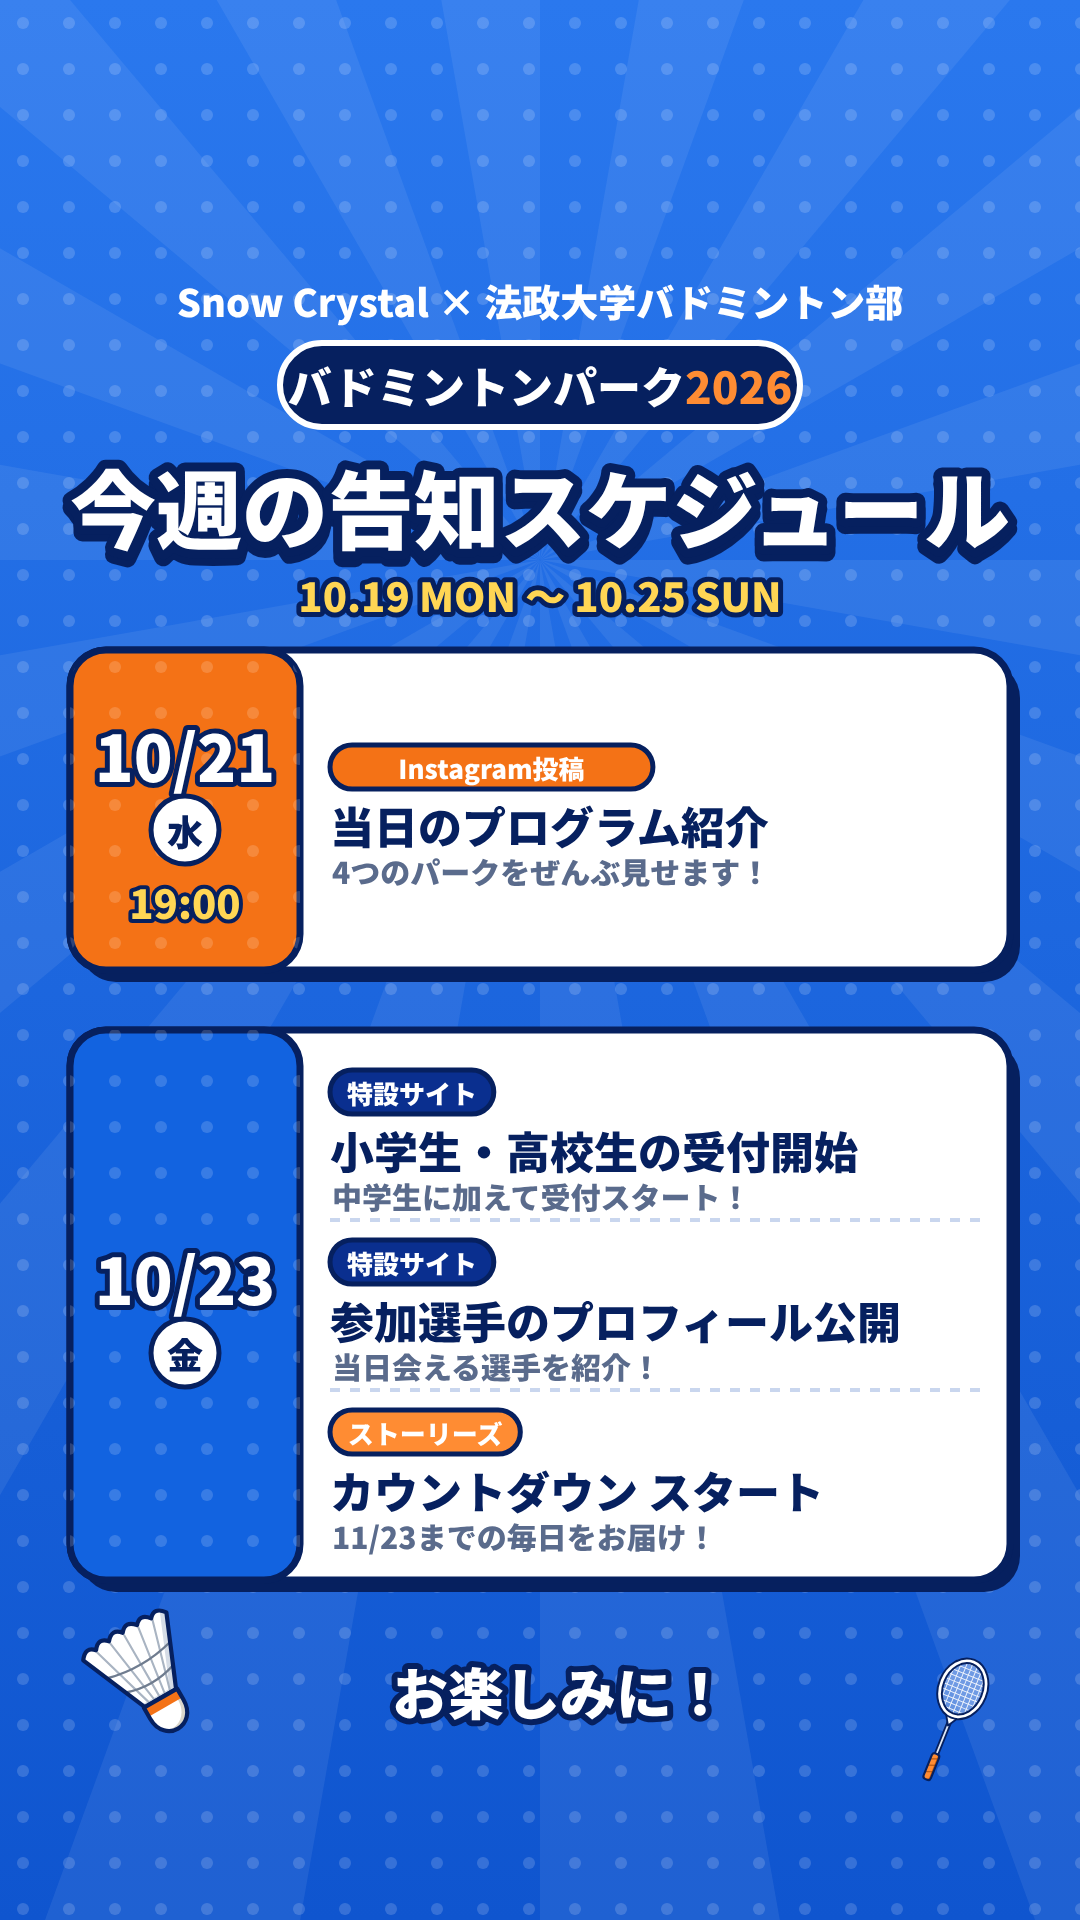
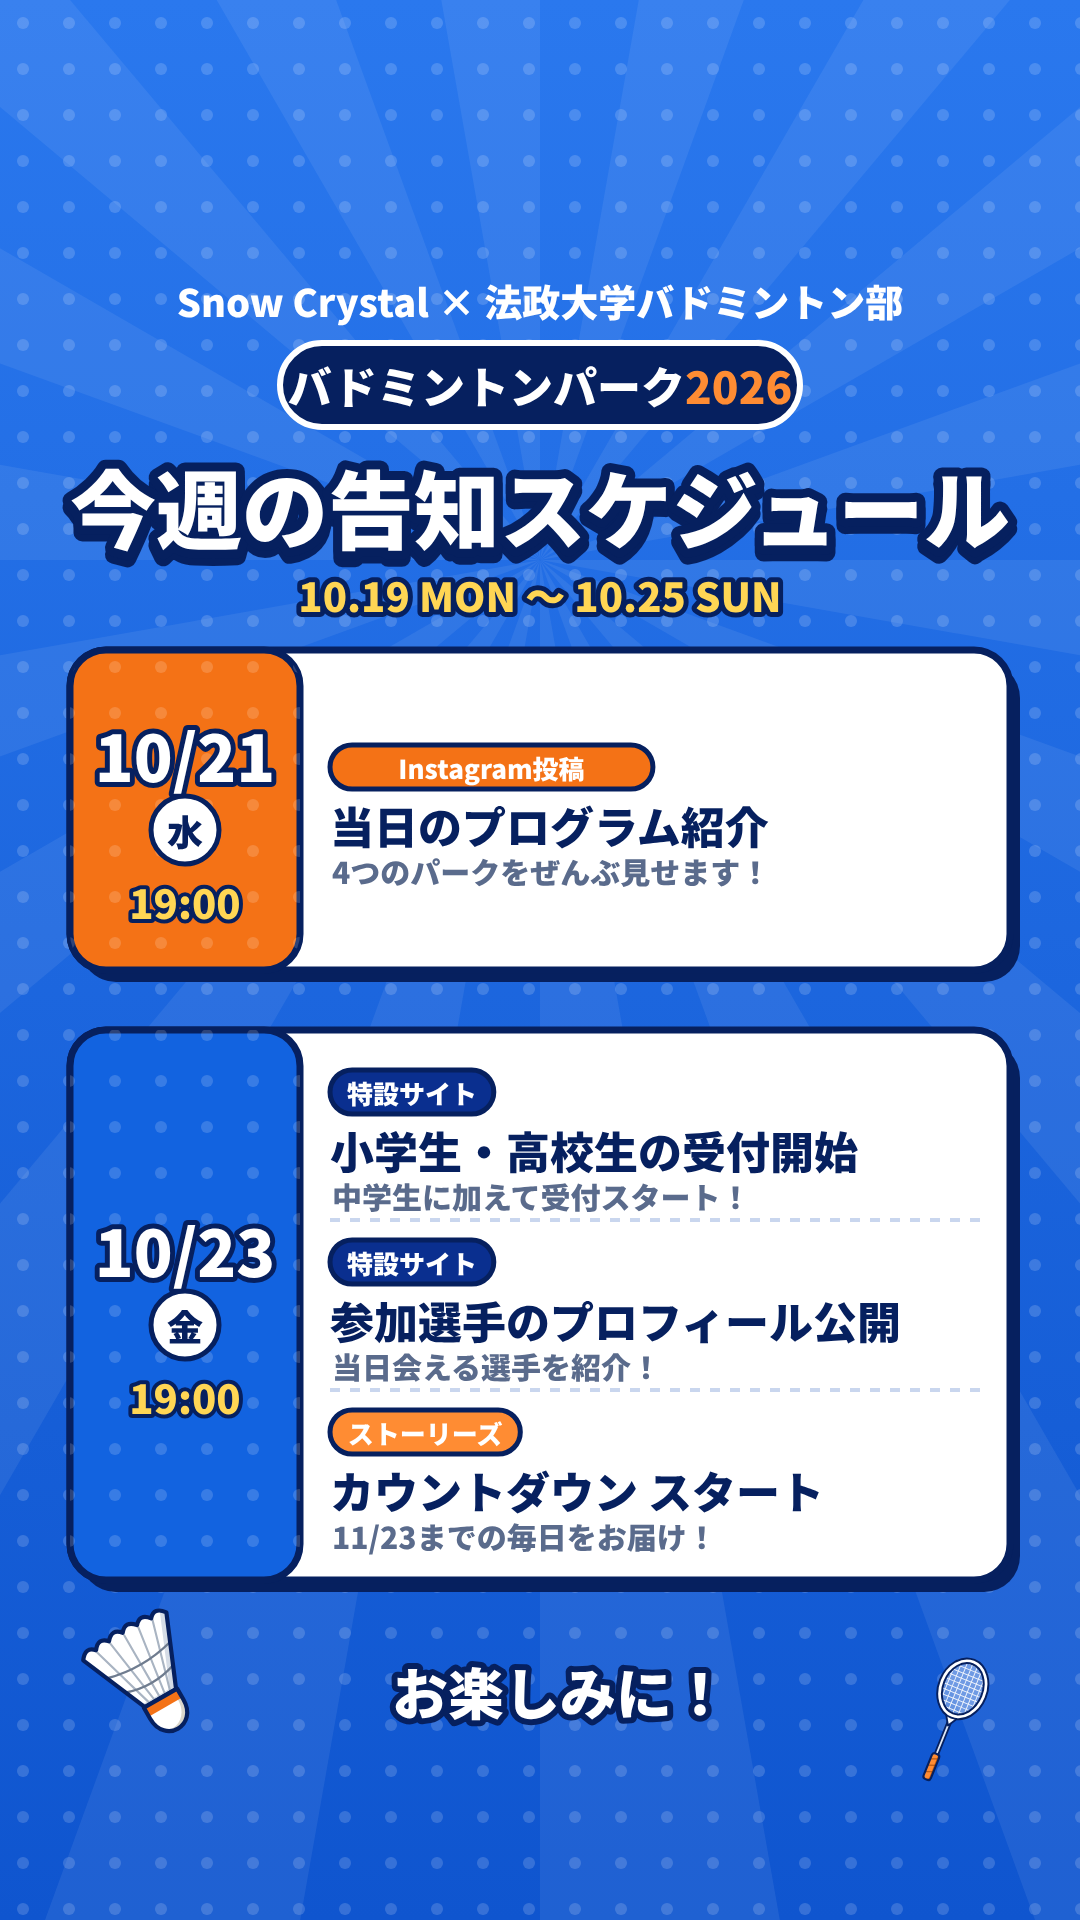
今週の告知スケジュール: 10/23を19:00に
Claude-Session: https://claude.ai/code/session_01FUrcSuU1LtPQWz1MTbAvHW

Changed region(s): [[0.0917, 0.625, 0.275, 0.75]]

diff --git a/instagram/weekly-story/index.html b/instagram/weekly-story/index.html
@@ -23,7 +23,7 @@ const WEEK='10.19 MON 〜 10.25 SUN';
 // [日付, 曜日, 時刻, 色, [[媒体, 内容, ひとこと], ...]]
 const DAYS=[
  ['10/21','水','19:00',OR,[['Instagram投稿','当日のプログラム紹介','4つのパークをぜんぶ見せます！']]],
- ['10/23','金','',BLUE,[['特設サイト','小学生・高校生の受付開始','中学生に加えて受付スタート！'],
+ ['10/23','金','19:00',BLUE,[['特設サイト','小学生・高校生の受付開始','中学生に加えて受付スタート！'],
                        ['特設サイト','参加選手のプロフィール公開','当日会える選手を紹介！'],
                        ['ストーリーズ','カウントダウン スタート','11/23までの毎日をお届け！']]],
 ];
